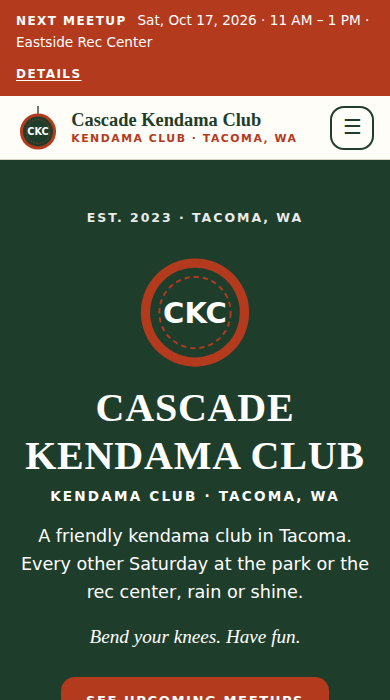
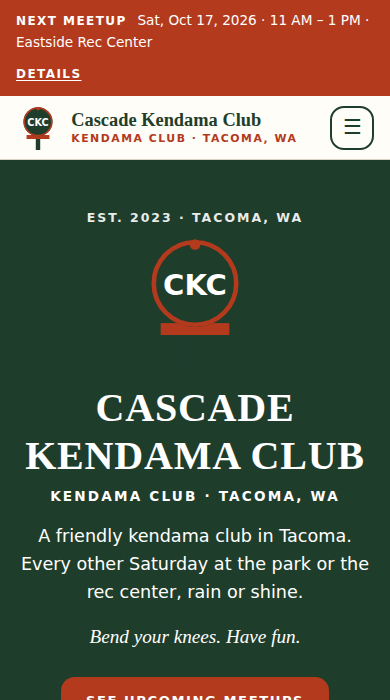
docs: document toys and new presets, add showcase demos
README, AGENTS.md, and the showcase list the new presets and explain
the toys setting and toy placeholders. The showcase gains diabolo, spin
top, juggling, and mixed-toys demos with screenshots, and the kendama
screenshot is refreshed for its new logo.

Claude-Session: https://claude.ai/code/session_01HXiFZgfTb5ADj4VUWjnfkA

Changed region(s): [[0.3385, 0.33, 0.6462, 0.54], [0.0308, 0.15, 0.1538, 0.24]]

diff --git a/showcase/index.html b/showcase/index.html
@@ -4,14 +4,14 @@
   <meta charset="UTF-8">
   <meta name="viewport" content="width=device-width, initial-scale=1">
   <title>Free Website Template for Yo-Yo & Skill Toy Clubs</title>
-  <meta name="description" content="A free, open-source website template for yo-yo, kendama, and skill toy clubs. Edit one file, publish on GitHub Pages in 15–30 minutes for $0. Meetup dates update themselves.">
+  <meta name="description" content="A free, open-source website template for yo-yo, kendama, diabolo, spin top, juggling, and skill toy clubs. Edit one file, publish on GitHub Pages in 15–30 minutes for $0. Meetup dates update themselves.">
   <meta name="robots" content="index, follow">
   <meta name="referrer" content="strict-origin-when-cross-origin">
   <meta name="theme-color" content="#102040">
   <meta http-equiv="Content-Security-Policy" content="default-src 'self'; script-src 'self'; style-src 'self'; img-src 'self' data:; font-src 'self'; frame-src 'none'; connect-src 'self'; base-uri 'self'; form-action 'none'; object-src 'none'; upgrade-insecure-requests">
   <meta property="og:type" content="website">
   <meta property="og:title" content="Free Website Template for Yo-Yo & Skill Toy Clubs">
-  <meta property="og:description" content="Edit one file, publish on GitHub Pages in 15–30 minutes, $0. Yo-yo, skill toy, kendama, and youth program presets.">
+  <meta property="og:description" content="Edit one file, publish on GitHub Pages in 15–30 minutes, $0. Presets for yo-yo, kendama, diabolo, spin top, juggling, mixed skill toy clubs, and youth programs.">
   <link rel="icon" href="favicon.svg" type="image/svg+xml">
   <link rel="stylesheet" href="showcase.css">
 </head>
@@ -20,7 +20,7 @@
 
 <header class="top">
   <div class="wrap top-inner">
-    <a class="brand" href="index.html"><img src="favicon.svg" alt="" width="36" height="36"><span>Yo-Yo Club Site Template</span></a>
+    <a class="brand" href="index.html"><img src="favicon.svg" alt="" width="36" height="36"><span>Skill Toy Club Site Template</span></a>
     <nav aria-label="Page sections">
       <a href="#examples">Examples</a>
       <a href="#deploy">Deploy</a>
@@ -35,10 +35,10 @@
 <section class="hero">
   <div class="wrap">
     <p class="eyebrow">Free &bull; Open source &bull; No coding</p>
-    <h1>A website for your yo-yo club, live in 30 minutes</h1>
+    <h1>A website for your skill toy club, live in 30 minutes</h1>
     <p class="lede">Fill in one settings file with your meetup rule, venue, and contact email.
       The site works out your next meetup dates by itself, every day. GitHub builds and hosts it for free.
-      Made for yo-yo clubs, kendama clubs, skill toy meetups, and school or library programs.</p>
+      Made for yo-yo, kendama, diabolo, spin top, and juggling clubs, mixed skill toy meetups, and school or library programs.</p>
     <p class="btn-row">
       <a class="btn btn-accent" href="https://github.com/dmvthrowers/yoyoclub-template/generate" rel="noopener noreferrer">Use this template</a>
       <a class="btn btn-ghost" href="#examples">See examples</a>
@@ -85,6 +85,30 @@
         <span class="tag tag-demo">Demo</span>
         <strong>Library Program</strong>
         <span><code>youth-program</code> preset, school-year season</span>
+      </a>
+      <a class="example" href="examples/demo-diabolo/index.html">
+        <img src="images/demo-diabolo.png" alt="Home page of the diabolo club demo site" width="390" height="700" loading="lazy">
+        <span class="tag tag-demo">Demo</span>
+        <strong>Diabolo Club</strong>
+        <span><code>diabolo-club</code> preset, monthly meetups</span>
+      </a>
+      <a class="example" href="examples/demo-spintop/index.html">
+        <img src="images/demo-spintop.png" alt="Home page of the spin top club demo site" width="390" height="700" loading="lazy">
+        <span class="tag tag-demo">Demo</span>
+        <strong>Spin Top Club</strong>
+        <span><code>spintop-club</code> preset, soft corners</span>
+      </a>
+      <a class="example" href="examples/demo-juggling/index.html">
+        <img src="images/demo-juggling.png" alt="Home page of the juggling and flow arts club demo site" width="390" height="700" loading="lazy">
+        <span class="tag tag-demo">Demo</span>
+        <strong>Juggling Club</strong>
+        <span><code>juggling-club</code> preset, juggling and flow arts</span>
+      </a>
+      <a class="example" href="examples/demo-mixed/index.html">
+        <img src="images/demo-mixed.png" alt="Home page of the kendama, spin top, and diabolo club demo site" width="390" height="700" loading="lazy">
+        <span class="tag tag-demo">Demo</span>
+        <strong>Mixed Toys</strong>
+        <span><code>toys</code> setting: kendama, spin tops, diabolo</span>
       </a>
     </div>
     <p class="note">DMV Throwers' settings are in
@@ -170,12 +194,17 @@ the GitHub Pages site is live.</code></pre>
         <thead><tr><th scope="col">Preset</th><th scope="col">For</th><th scope="col">Learn page</th></tr></thead>
         <tbody>
           <tr><td><code>yoyo-club</code></td><td>A yo-yo club (default)</td><td>Yo-yo basics, a 3-level trick path, and 1A–5A contest styles</td></tr>
-          <tr><td><code>skill-toy-club</code></td><td>Yo-yos plus kendama, spin tops, diabolo, juggling</td><td>First tricks for each toy</td></tr>
           <tr><td><code>kendama-club</code></td><td>A kendama club</td><td>Kendama basics and a trick ladder</td></tr>
+          <tr><td><code>diabolo-club</code></td><td>A diabolo club</td><td>Starting and spinning, a trick path, and ceiling-height safety</td></tr>
+          <tr><td><code>spintop-club</code></td><td>A spin top (throw top) club</td><td>Winding and throwing, a trick path, and hard-floor safety</td></tr>
+          <tr><td><code>juggling-club</code></td><td>A juggling and flow arts club</td><td>Cascade basics, a trick path, poi, staff, and hoop</td></tr>
+          <tr><td><code>skill-toy-club</code></td><td>Yo-yos plus kendama, spin tops, diabolo, juggling</td><td>First tricks for each toy</td></tr>
           <tr><td><code>youth-program</code></td><td>A school, library, camp, or rec-center program for kids</td><td>A printable trick checklist and tips for teachers</td></tr>
         </tbody>
       </table>
     </div>
+    <p class="note">Play a different mix? List it in <code>site.jsonc</code>, like <code>"toys": ["yo-yo", "kendama"]</code>.
+      The Learn page, FAQ, loaner and safety text, and logo are then written for exactly those toys.</p>
   </div>
 </section>
 
@@ -186,7 +215,7 @@ the GitHub Pages site is live.</code></pre>
       <li><strong>11 pages</strong>: Home, About, Meetups, Learn, Team, Gallery, Resources, FAQ, Contact, Code of Conduct, Privacy &amp; Safety</li>
       <li><strong>Meetups that schedule themselves</strong>: "every 3rd Sunday" or "every other Thursday" becomes real dates, rebuilt daily</li>
       <li><strong>Next-meetup bar</strong> on every page, plus skip dates for holidays and closures</li>
-      <li><strong>Learn page</strong>: first steps, a trick path, contest styles, and trusted tutorial links</li>
+      <li><strong>Learn page</strong> for your toys: first steps, a trick path, and trusted tutorial links</li>
       <li><strong>Code of conduct</strong> written for skill toy meetups, with equipment safety</li>
       <li><strong>Shops &amp; sponsors</strong> with discount code boxes, plus a donate button</li>
       <li><strong>Found on Google</strong>: every meetup is listed as an event search engines understand</li>
@@ -218,10 +247,10 @@ the GitHub Pages site is live.</code></pre>
     <h2>Questions</h2>
     <details><summary>Do I need to know how to code?</summary><p>No. You edit a text file in your browser. If you can fill in a form, you can do this. The README walks through every step, and an AI coding agent can do it for you.</p></details>
     <details><summary>How do the meetup dates work?</summary><p>You describe the rule once, like "3rd Sunday, 1–4 PM" or "every other Thursday". The site rebuilds every morning, so the next meetup bar and the dates list always look ahead. Add skip dates for holidays.</p></details>
-    <details><summary>We play more than yo-yos. Does it fit?</summary><p>Yes. The <code>skill-toy-club</code> preset covers yo-yo, kendama, spin tops, diabolo, juggling, and flow arts. You can also edit the list of what you play in <code>site.jsonc</code>.</p></details>
+    <details><summary>We don't play yo-yos. Does it fit?</summary><p>Yes. There are presets for kendama, diabolo, spin top, and juggling and flow arts clubs. For any other mix, list your toys in <code>site.jsonc</code>, like <code>"toys": ["kendama", "spin-top"]</code>, and the wording, Learn page, FAQ, and safety notes follow.</p></details>
     <details><summary>Is it really free?</summary><p>Yes. The template is public domain, and GitHub Pages hosts public sites for free. The only optional cost is your own domain name.</p></details>
     <details><summary>What about photos of kids?</summary><p>Post photos only with permission, and never with kids' names. The README explains how to resize photos and remove location data, and the site's Privacy &amp; Safety page tells families how to ask for a photo to be removed.</p></details>
-    <details><summary>Can we use our own logo and domain?</summary><p>Yes. Add your logo as <code>assets/emblem.svg</code>. Without one, the site makes a yo-yo logo with your initials. For a domain, enter it in Settings → Pages → Custom domain; the README has the DNS records.</p></details>
+    <details><summary>Can we use our own logo and domain?</summary><p>Yes. Add your logo as <code>assets/emblem.svg</code>. Without one, the site makes a logo with your initials, shaped like your first toy. For a domain, enter it in Settings → Pages → Custom domain; the README has the DNS records.</p></details>
     <details><summary>Something went wrong. Now what?</summary><p>A red X on the Actions tab means the automatic check caught a problem, usually a typo in <code>site.jsonc</code>. Click the run for a plain-English message. Your live site stays as it was until it's fixed.</p></details>
   </div>
 </section>

diff --git a/scripts/build_showcase.py b/scripts/build_showcase.py
@@ -20,6 +20,10 @@ EXAMPLES = [                               # (folder name, settings file)
     ("demo-skill-toy", "examples/demo-skill-toy.jsonc"),
     ("demo-kendama", "examples/demo-kendama.jsonc"),
     ("demo-youth-program", "examples/demo-youth-program.jsonc"),
+    ("demo-diabolo", "examples/demo-diabolo.jsonc"),
+    ("demo-spintop", "examples/demo-spintop.jsonc"),
+    ("demo-juggling", "examples/demo-juggling.jsonc"),
+    ("demo-mixed", "examples/demo-mixed.jsonc"),
 ]
 
 base_url = os.environ.get("SITE_URL", "").strip()

diff --git a/README.md b/README.md
@@ -1,8 +1,8 @@
-# Yo-Yo Club Website Template
+# Yo-Yo & Skill Toy Club Website Template
 
-A free, fast, mobile-friendly website for a **yo-yo club, kendama club, skill toy meetup, or a
-school or library yo-yo program**. Edit one settings file, and GitHub builds and publishes the site
-for you. No coding, servers, or monthly fees.
+A free, fast, mobile-friendly website for a **yo-yo, kendama, diabolo, spin top, or juggling club, a
+mixed skill toy meetup, or a school or library program**. Edit one settings file, and GitHub builds
+and publishes the site for you. No coding, servers, or monthly fees.
 
 ![Five sites built from this template: DMV Throwers and four demos](.github/preview.png)
 
@@ -18,7 +18,9 @@ Code of Conduct, Privacy & Safety) plus a "page not found" page.
 - **Meetups that schedule themselves.** Describe your rule once, like "3rd Sunday, 1–4 PM" or
   "every other Thursday". The site lists the next dates, shows a **next meetup** bar on every page,
   and rebuilds every morning so it's never out of date. Add skip dates for holidays.
-- **A Learn page** with first steps, a trick path, contest styles (1A–5A), and trusted tutorial links.
+- **A Learn page** for your toys: first steps, a trick path, trusted tutorial links, and yo-yo contest styles (1A–5A) if you throw.
+- **Made for what you play.** Pick a preset, or list your toys (`"toys": ["yo-yo", "kendama"]`) and the
+  wording, Learn page, FAQ, safety notes, and logo follow ("loaner yo-yos and kendamas").
 - **A code of conduct** written for skill toy meetups, including equipment safety.
 - **Shops and sponsors** with discount-code boxes, plus a donate button.
 - **Every meetup is an event Google understands**, and the FAQ shows up in search results too.
@@ -53,9 +55,18 @@ Open **`site.jsonc`**, click the **pencil icon** to edit, and work top to bottom
    | Preset | For | Learn page shows |
    | --- | --- | --- |
    | `yoyo-club` (default) | A yo-yo club | Yo-yo basics, a 3-level trick path, 1A–5A contest styles |
-   | `skill-toy-club` | Yo-yos plus kendama, spin tops, diabolo, juggling, flow arts | First tricks for each toy |
    | `kendama-club` | A kendama club | Kendama basics and a trick ladder |
+   | `diabolo-club` | A diabolo club | Starting and spinning, a trick path, and space and ceiling-height safety |
+   | `spintop-club` | A spin top (throw top) club | Winding and throwing, a trick path, and hard-floor and throwing safety |
+   | `juggling-club` | A juggling and flow arts club (balls, clubs, rings, poi, staff, hoop) | Cascade basics, a trick path, flow props, and a no-fire rule |
+   | `skill-toy-club` | Yo-yos plus kendama, spin tops, diabolo, juggling, flow arts | First tricks for each toy |
    | `youth-program` | A yo-yo program at a school, library, camp, or rec center | A printable trick checklist, tips for teachers, stricter kid-safety rules |
+
+   **`toys`**: what you play. Leave it `[]` to use the preset's toys. If your mix is different, list
+   it, for example `["kendama", "spin-top"]`. The Learn page, FAQ, loaner and safety text, code of
+   conduct, and logo are then written for exactly those toys ("loaner kendamas and spin tops").
+   Known toys: `yo-yo`, `kendama`, `spin-top`, `diabolo`, `juggling`, `flow-arts`. Any other name
+   works too, with plain wording (the build tells you).
 
 2. **`club`**: name, tagline, slogan, city, area, short description.
 3. **`meetup`**: your repeating schedule, venue, address, and whether you bring loaners.
@@ -122,9 +133,10 @@ Set the rule once in `site.jsonc` → `meetup.schedule`. Times are 24-hour (`"13
 | Workshops, contests, demos | `site.jsonc` → `events` | `"featured": true` puts one on the home page. |
 | Shops and sponsors | `site.jsonc` → `partners` | `"code"` shows a discount code box. |
 | Charter, guides, checklists | `assets/documents/` + `site.jsonc` → `documents` | `"about": true` also shows it on the About page. |
-| What you play (the tags) | `site.jsonc` → `"disciplines": ["Yo-Yo", "Kendama"]` | |
+| What you play | `site.jsonc` → `"toys": ["yo-yo", "kendama"]` | Rewrites the toy wording, Learn page, FAQ, and safety text. See step 3. |
+| The tags under "About us" | `site.jsonc` → `"disciplines": ["Yo-Yo", "Kendama"]` | |
 | Colors and corners | `site.jsonc` → `theme` | Any hex color. `"corners"`: `sharp`, `soft`, or `round`. The build warns if text would be hard to read. |
-| Logo | add `assets/emblem.svg` | Otherwise a yo-yo logo with your initials (`club.short_name`) is generated. |
+| Logo | add `assets/emblem.svg` | Otherwise a logo with your initials (`club.short_name`) is generated, shaped like your first toy: a yo-yo, kendama, top, diabolo, or juggling balls. Pick another with `theme.emblem`. |
 | Social-share image | add `assets/og-card.png` (1200×630) | Otherwise one is generated in your colors. |
 | Photos | `assets/images/gallery/` + `site.jsonc` → `gallery` | See [Photos](#photos-and-privacy). |
 | Extra links on Resources | `site.jsonc` → `links`, `sister_clubs` | |
@@ -229,8 +241,11 @@ python3 scripts/check_site.py
 | Page wording (buttons, headings) | in English in `build.py`. Search for the text and translate it |
 | Month and day names | `MONTHS`, `MONTHS_FULL`, `DAYS`, and `DAYS_FULL` near the top of `build.py` |
 
-To add a new preset, copy `presets/yoyo-club.json` to `presets/my-preset.json`, edit it, and set
-`"preset": "my-preset"` in `site.jsonc`.
+To add a new preset, copy `presets/yoyo-club.json` to `presets/my-preset.json`, edit it (including
+its `"toys"`), and set `"preset": "my-preset"` in `site.jsonc`. To add a toy, add an entry to
+`presets/_toys.json`: its words, logo shape, starter card, first tricks, links, and one safety line.
+In any text, `{toys}` becomes your toys ("yo-yos and kendamas"), `{toy}` the short form ("yo-yo and
+kendama", or "skill toy" for three or more), and `{Toy}` the title form ("Yo-Yo & Kendama").
 
 ---
 
@@ -258,8 +273,8 @@ To add a new preset, copy `presets/yoyo-club.json` to `presets/my-preset.json`, 
   The GitHub Actions it uses are pinned to exact versions and kept current by Dependabot.
 - **Turn on two-factor login** for your GitHub account. Whoever controls the account controls the site.
 - **Trademarks:** brand names in the presets (shops, apps, leagues) are used only to link to their
-  sites. This template includes no brand logos and isn't affiliated with or endorsed by any yo-yo
-  or skill toy company, league, or shop.
+  sites. This template includes no brand logos and isn't affiliated with or endorsed by any yo-yo,
+  kendama, juggling, or skill toy company, league, or shop.
 - **Links change.** The preset links were checked in October 2026. Fix any that break in your preset file.
 
 ---
@@ -269,7 +284,9 @@ To add a new preset, copy `presets/yoyo-club.json` to `presets/my-preset.json`, 
 ```
 site.jsonc              ← your settings (start here)
 presets/                ← starting text for each kind of club
-  yoyo-club.json  skill-toy-club.json  kendama-club.json  youth-program.json
+  yoyo-club.json  kendama-club.json  diabolo-club.json  spintop-club.json
+  juggling-club.json  skill-toy-club.json  youth-program.json
+  _toys.json            ← the toy library: words, logo, and starter tips for each toy
 assets/                 ← copied to the site as-is
   style.css             ← look and layout (colors come from site.jsonc)
   site.js               ← phone menu (the only script)

diff --git a/AGENTS.md b/AGENTS.md
@@ -1,14 +1,16 @@
 # Instructions for AI coding agents
 
-You're helping someone launch a website for a yo-yo club, kendama club, skill toy meetup, or youth
-yo-yo program from this template. The human-facing guide is [README.md](README.md). Read it, then follow this.
+You're helping someone launch a website for a yo-yo, kendama, diabolo, spin top, or juggling club, a
+mixed skill toy meetup, or a youth program from this template. The human-facing guide is [README.md](README.md). Read it, then follow this.
 
 ## Goal
 Get a correct, live site in one session (15–30 minutes) with as few human steps as possible.
 
 ## Steps
 1. **Collect facts from the user**:
-   - preset (`yoyo-club`, `skill-toy-club`, `kendama-club`, `youth-program`)
+   - preset (`yoyo-club`, `kendama-club`, `diabolo-club`, `spintop-club`, `juggling-club`,
+     `skill-toy-club`, `youth-program`)
+   - which toys they play, if that differs from the preset (`"toys": ["yo-yo", "kendama"]`)
    - club name, city, region, and how they describe their area
    - the meetup rule (e.g. "3rd Sunday, 1–4 PM"), venue, room, address, and time zone
    - whether they bring loaners
@@ -56,6 +58,13 @@ Get a correct, live site in one session (15–30 minutes) with as few human step
 - **Pages:** each page is one `page_<slug>()` method in `build.py`. To add a page, add a method
   and an entry in `self.pages`.
 - **Extra content:** `content/<slug>.html` is appended to that page. Plain HTML only.
+- **Toys:** set `toys` in `site.jsonc` instead of rewriting preset text toy by toy. When the list differs
+  from the preset's, the build rewrites the Learn page, FAQ, loaner, safety, and conduct text from
+  `presets/_toys.json` (a preset's `"mix"` block can replace that shared text). Write toy words in
+  presets as `{toys}`, `{toy}`, and `{Toy}`, not hard-coded "yo-yo". The check fails if any
+  `{placeholder}` is left unfilled.
+- **Facts in presets:** keep tips generic and safe. Link only to sources you've checked load, and
+  don't describe a real shop, league, or person as a fact you can't verify.
 - **Showcase:** `showcase/`, `examples/`, and `scripts/build_showcase.py` only run in the original
   template repository. Ignore them (or delete them) in a user's copy.
 - **No dependencies:** keep `build.py` and `scripts/check_site.py` standard-library Python 3.9+.
